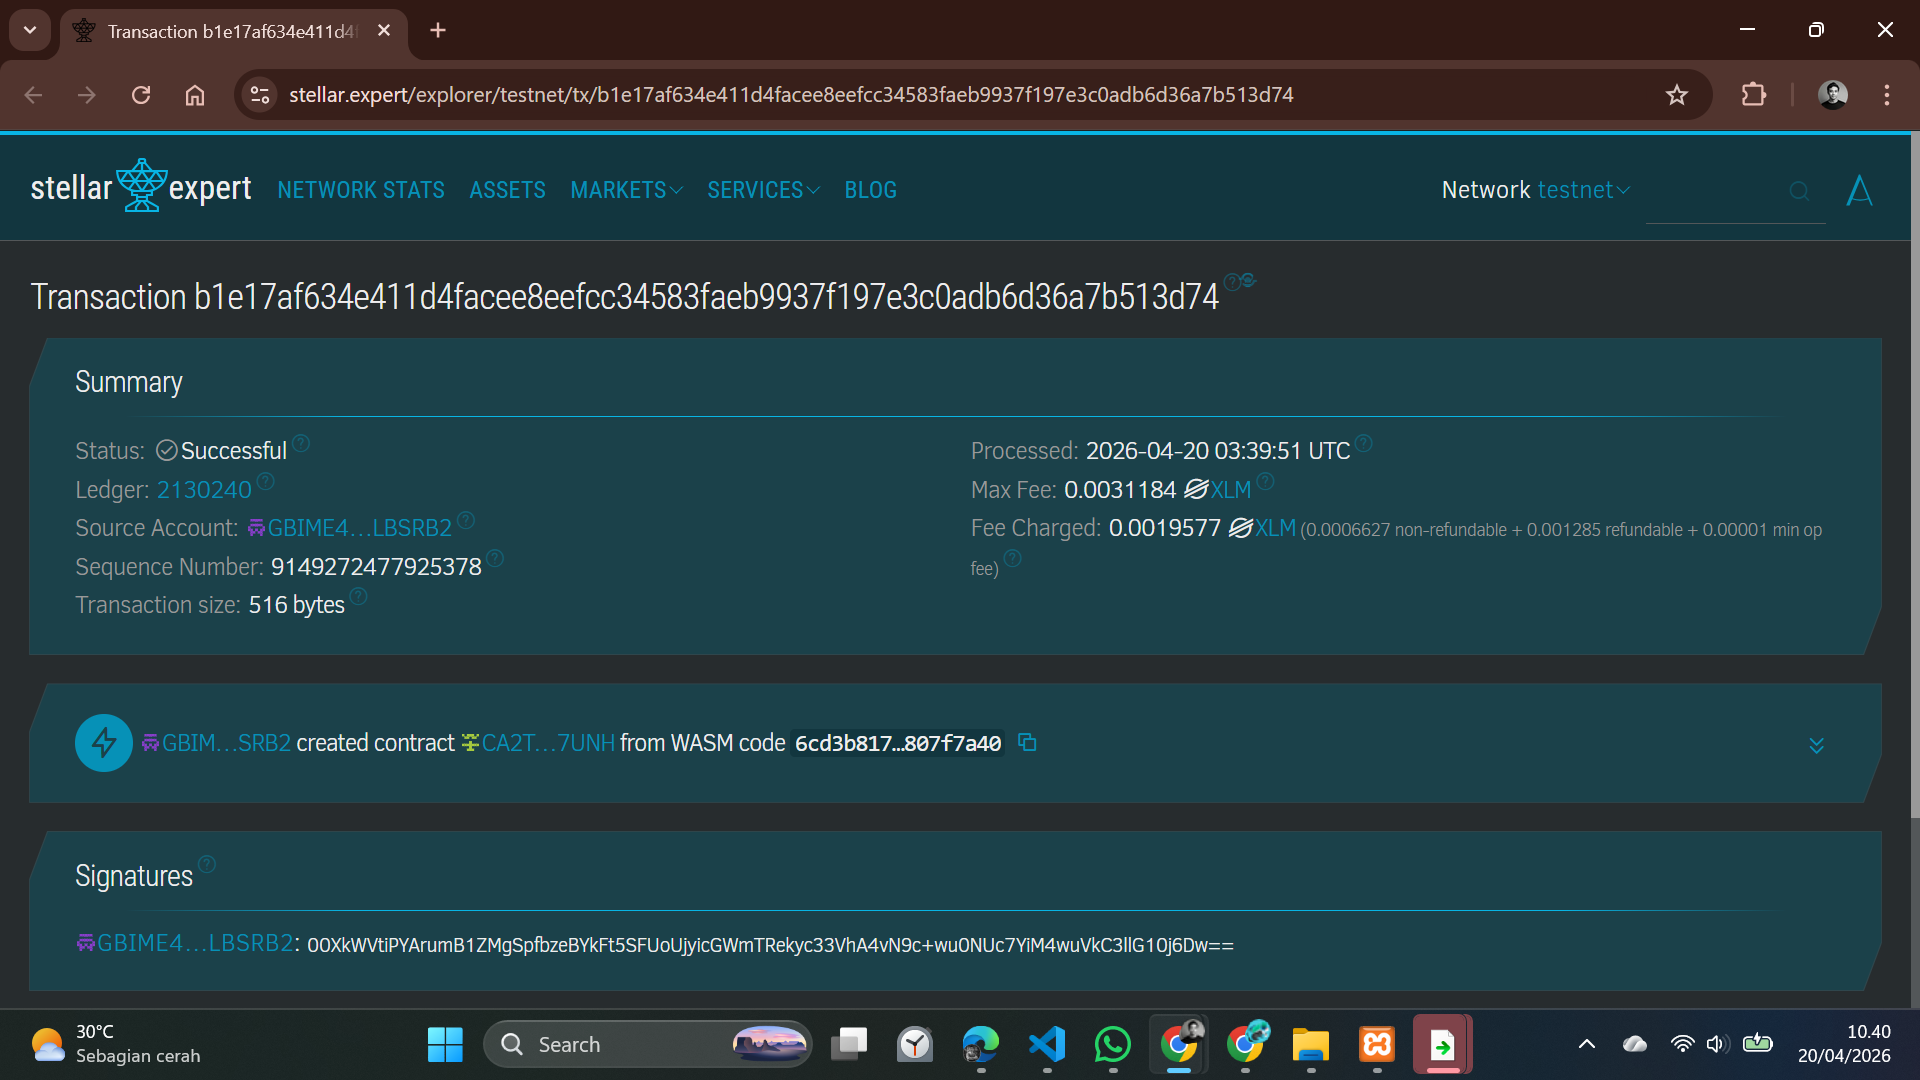
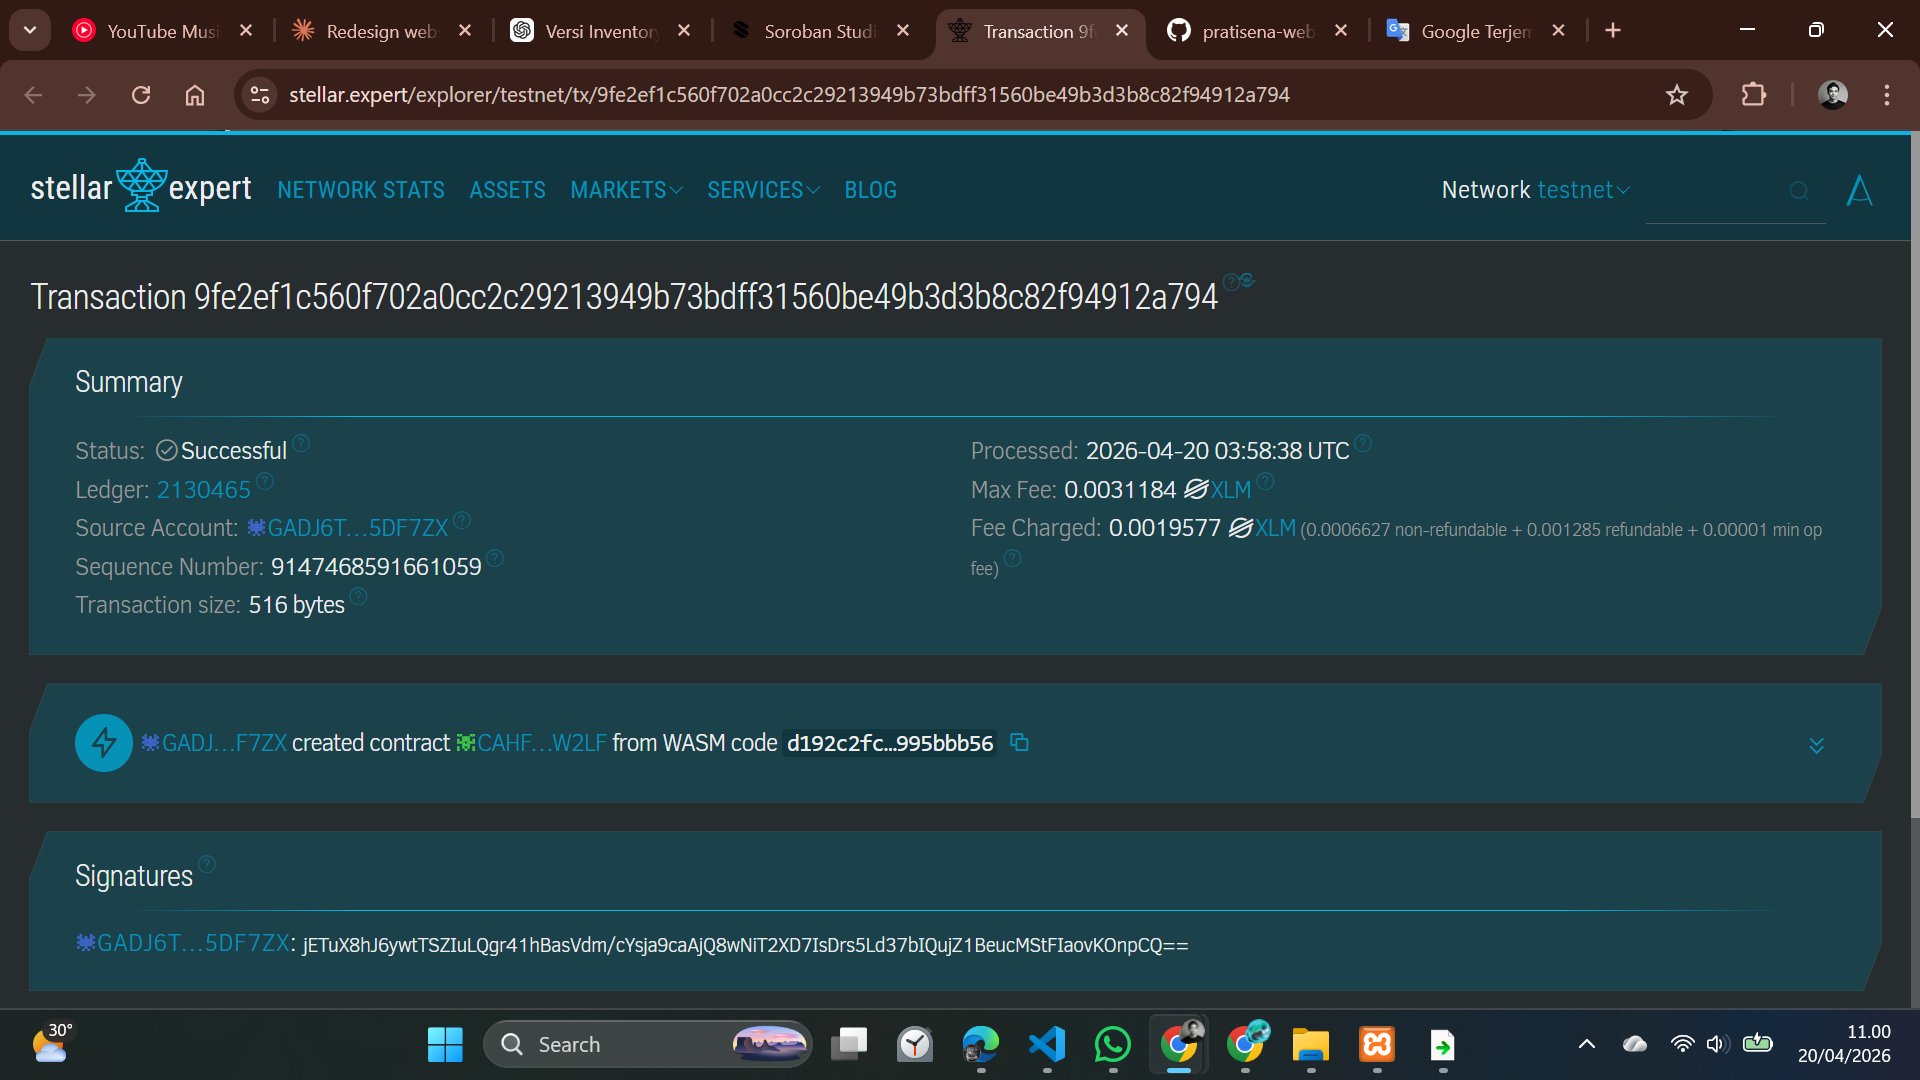
Update from soroban studio | https://soroban.studio

diff --git a/contracts/notes/src/lib.rs b/contracts/notes/src/lib.rs
@@ -1,7 +1,7 @@
 #![no_std]
 use soroban_sdk::{contract, contractimpl, contracttype, symbol_short, Env, String, Symbol, Vec};
 
-// Struktur data untuk task
+// Data structure for task
 #[contracttype]
 #[derive(Clone, Debug)]
 pub struct Task {
@@ -20,7 +20,7 @@ pub struct TaskContract;
 #[contractimpl]
 impl TaskContract {
 
-    // Ambil semua task
+    // Get all the tasks
     pub fn get_tasks(env: Env) -> Vec<Task> {
         env.storage()
             .instance()
@@ -28,7 +28,7 @@ impl TaskContract {
             .unwrap_or(Vec::new(&env))
     }
 
-    // Tambah task baru
+    // Add new task
     pub fn create_task(env: Env, title: String, description: String) -> String {
         let mut tasks: Vec<Task> = env.storage()
             .instance()
@@ -39,17 +39,17 @@ impl TaskContract {
             id: env.prng().gen::<u64>(),
             title,
             description,
-            completed: false, // default belum selesai
+            completed: false, // default hasn't done yet
         };
 
         tasks.push_back(task);
 
         env.storage().instance().set(&TASK_DATA, &tasks);
 
-        String::from_str(&env, "Task berhasil dibuat")
+        String::from_str(&env, "Task created successfully")
     }
 
-    // Hapus task
+    // Delete task
     pub fn delete_task(env: Env, id: u64) -> String {
         let mut tasks: Vec<Task> = env.storage()
             .instance()
@@ -61,11 +61,11 @@ impl TaskContract {
                 tasks.remove(i);
 
                 env.storage().instance().set(&TASK_DATA, &tasks);
-                return String::from_str(&env, "Task berhasil dihapus");
+                return String::from_str(&env, "Task deleted successfully");
             }
         }
 
-        String::from_str(&env, "Task tidak ditemukan")
+        String::from_str(&env, "Task not found")
     }
 
     // Update status task (done / not done)
@@ -83,11 +83,11 @@ impl TaskContract {
                 tasks.set(i, task);
 
                 env.storage().instance().set(&TASK_DATA, &tasks);
-                return String::from_str(&env, "Status task berhasil diupdate");
+                return String::from_str(&env, "Status task updated successfully");
             }
         }
 
-        String::from_str(&env, "Task tidak ditemukan")
+        String::from_str(&env, "Task not found")
     }
 }
 

diff --git a/README.md b/README.md
@@ -64,7 +64,7 @@ We envision a system where personal productivity tools are secure, transparent, 
 
 ## Contract Details
 
-* Contract Address: CBSDDKRZC3AUMZ5MMINAO5HQU422VMAUERM2SBSFIVM75ERIUFYCMVNZ  
+* Contract Address: CAHFRQ56HKJJEWF3IA6GGLXDDNZRVO5JTW27N3MHO2G7XOYYYUBGW2LF  
 * Network: Stellar Soroban Testnet  
 
 (Screenshot has been removed)